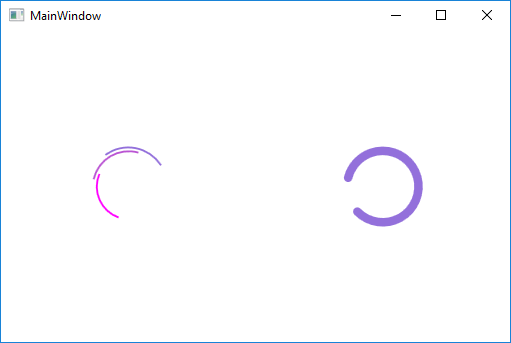
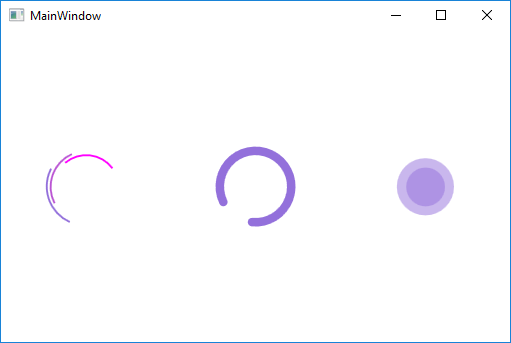
+ added BouncingCirclesPreloader

diff --git a/XamlPreloader/BouncingCirclesPreloader.xaml b/XamlPreloader/BouncingCirclesPreloader.xaml
@@ -1,0 +1,57 @@
+<UserControl x:Class="XamlPreloader.BouncingCirclesPreloader"
+             xmlns="http://schemas.microsoft.com/winfx/2006/xaml/presentation"
+             xmlns:x="http://schemas.microsoft.com/winfx/2006/xaml"
+             xmlns:mc="http://schemas.openxmlformats.org/markup-compatibility/2006" 
+             xmlns:d="http://schemas.microsoft.com/expression/blend/2008"
+             mc:Ignorable="d">
+    <Canvas Height="50" Width="50">
+        <Path x:Name="FirstCircle" Stroke="#9370DB" StrokeThickness="0" RenderTransformOrigin="0.5, 0.5" Stretch="Fill" Fill="#809370DB">
+            <Path.Data>
+                <PathGeometry Figures="M75,50C75,63.8071187457698 63.8071187457698,75 50,75 36.1928812542302,75 25,63.8071187457698 25,50 25,36.1928812542302 36.1928812542302,25 50,25 63.8071187457698,25 75,36.1928812542302 75,50z"/>
+            </Path.Data>
+            <Path.RenderTransform>
+                <ScaleTransform x:Name="FirstCircleScale" CenterX="0.5" CenterY="0.5"/>
+            </Path.RenderTransform>
+            <Path.Triggers>
+                <EventTrigger RoutedEvent="Loaded">
+                    <BeginStoryboard>
+                        <Storyboard>
+                            <DoubleAnimation
+                                Storyboard.TargetProperty="(Path.RenderTransform).(ScaleTransform.ScaleX)"
+                                To="0.2" Duration="0:0:1" AutoReverse="True" 
+                                RepeatBehavior="Forever" />
+                            <DoubleAnimation
+                                Storyboard.TargetProperty="(Path.RenderTransform).(ScaleTransform.ScaleY)"
+                                To="0.2" Duration="0:0:1" AutoReverse="True" 
+                                RepeatBehavior="Forever" />
+                        </Storyboard>
+                    </BeginStoryboard>
+                </EventTrigger>
+            </Path.Triggers>
+        </Path>
+        <Path x:Name="SecondCircle" Stroke="#9370DB" StrokeThickness="0" RenderTransformOrigin="0.5, 0.5" Stretch="Fill" Fill="#809370DB">
+            <Path.Data>
+                <PathGeometry Figures="M75,50C75,63.8071187457698 63.8071187457698,75 50,75 36.1928812542302,75 25,63.8071187457698 25,50 25,36.1928812542302 36.1928812542302,25 50,25 63.8071187457698,25 75,36.1928812542302 75,50z"/>
+            </Path.Data>
+            <Path.RenderTransform>
+                <ScaleTransform x:Name="SecondCircleScale" CenterX="0.5" CenterY="0.5" ScaleX="0.2" ScaleY="0.2"/>
+            </Path.RenderTransform>
+            <Path.Triggers>
+                <EventTrigger RoutedEvent="Loaded">
+                    <BeginStoryboard>
+                        <Storyboard>
+                            <DoubleAnimation
+                                Storyboard.TargetProperty="(Path.RenderTransform).(ScaleTransform.ScaleX)"
+                                To="1" Duration="0:0:1" AutoReverse="True" 
+                                RepeatBehavior="Forever" />
+                            <DoubleAnimation
+                                Storyboard.TargetProperty="(Path.RenderTransform).(ScaleTransform.ScaleY)"
+                                To="1" Duration="0:0:1" AutoReverse="True" 
+                                RepeatBehavior="Forever" />
+                        </Storyboard>
+                    </BeginStoryboard>
+                </EventTrigger>
+            </Path.Triggers>
+        </Path>
+    </Canvas>
+</UserControl>

diff --git a/XamlPreloader/MainWindow.xaml b/XamlPreloader/MainWindow.xaml
@@ -10,12 +10,16 @@
         <Grid.ColumnDefinitions>
             <ColumnDefinition/>
             <ColumnDefinition/>
+            <ColumnDefinition/>
         </Grid.ColumnDefinitions>
         <Viewbox Grid.Column="0" Width="80" Height="80">
             <local:Preloader />
         </Viewbox>
         <Viewbox Grid.Column="1" Width="80" Height="80">
             <local:SimplePreloader />
+        </Viewbox>
+        <Viewbox Grid.Column="2" Width="80" Height="80">
+            <local:BouncingCirclesPreloader />
         </Viewbox>
         
     </Grid>

diff --git a/XamlPreloader/BouncingCirclesPreloader.xaml.cs b/XamlPreloader/BouncingCirclesPreloader.xaml.cs
@@ -1,0 +1,15 @@
+using System.Windows.Controls;
+
+namespace XamlPreloader
+{
+    /// <summary>
+    /// Логика взаимодействия для Preloader.xaml
+    /// </summary>
+    public partial class BouncingCirclesPreloader : UserControl
+    {
+        public BouncingCirclesPreloader()
+        {
+            InitializeComponent();
+        }
+    }
+}
